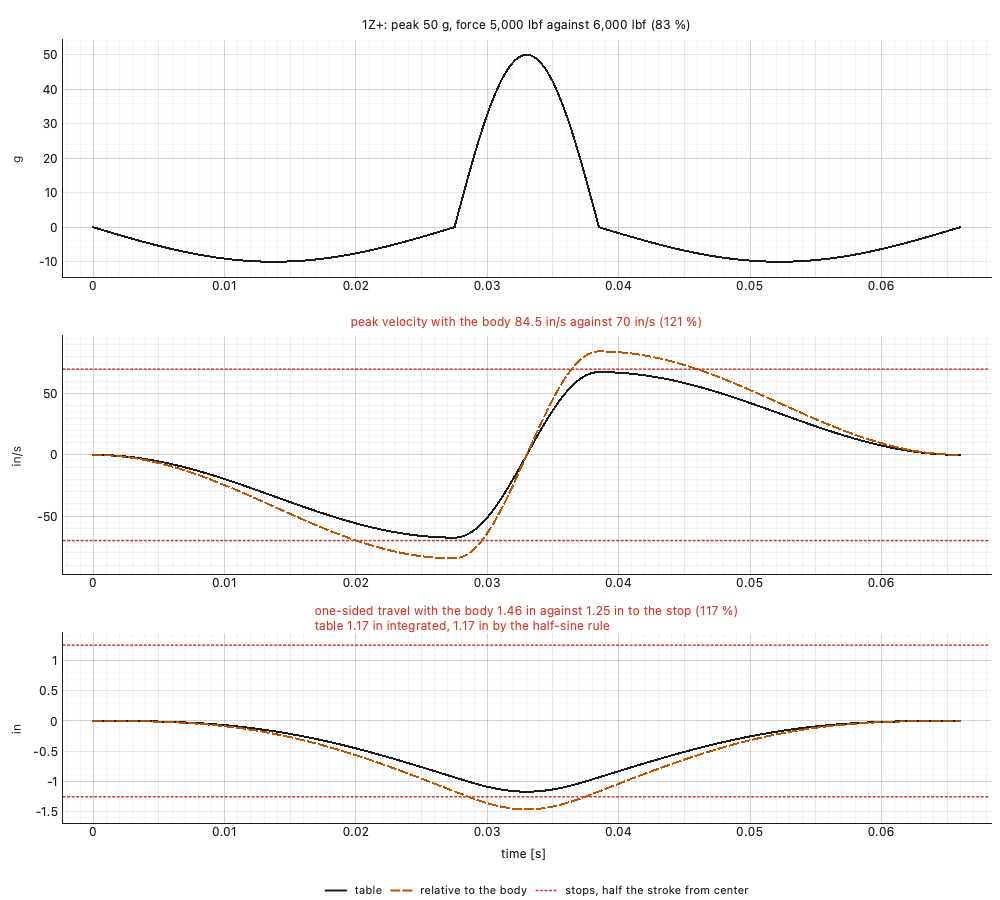
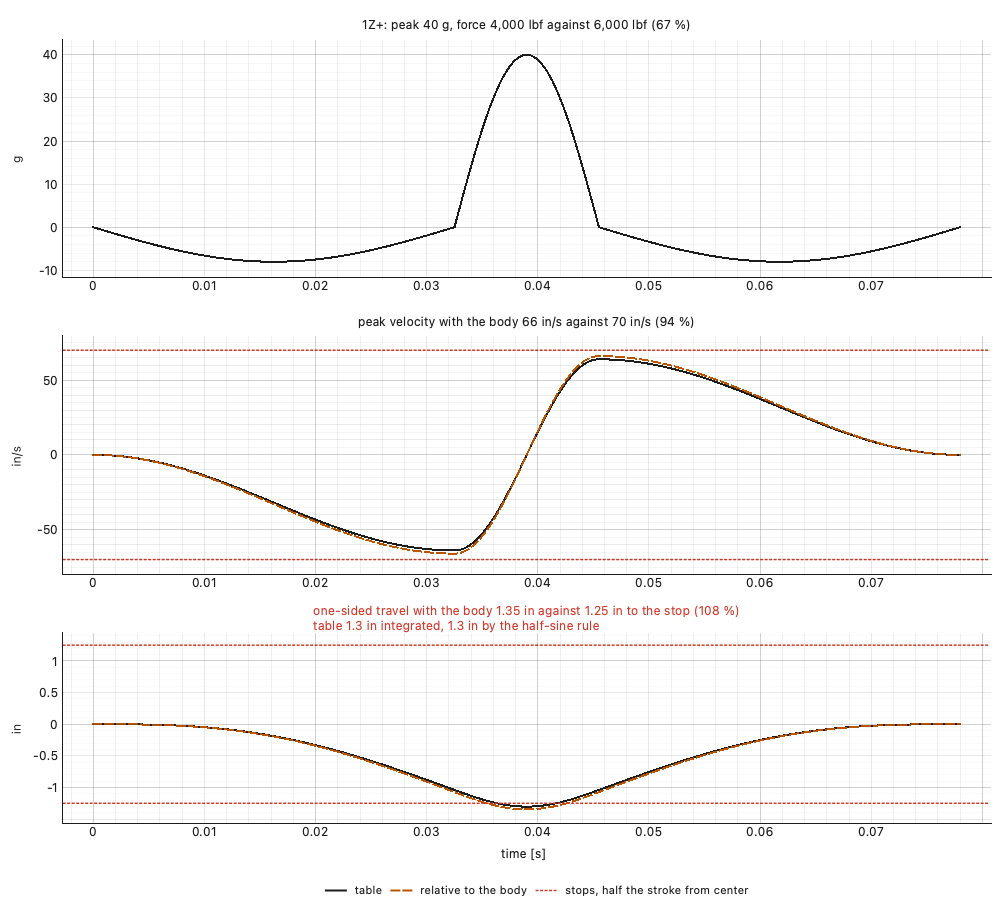
Home page links the acknowledgments; stroke guide with a realistic body mass

diff --git a/web/launch/index.html b/web/launch/index.html
@@ -37,6 +37,11 @@
     A visual structural dynamics toolset for viewing, analyzing, and
     reporting structural dynamic data in an interactive way.
   </p>
+  <p class="note">
+    Many people and projects helped shape Visual Dynamics. They are
+    thanked on the <a href="acknowledgments.html">acknowledgments</a>
+    page.
+  </p>
 </main>
 <footer>
   <a href="mailto:contact@visualdynamics.org">contact@visualdynamics.org</a><br>

diff --git a/tests/test_stroke.py b/tests/test_stroke.py
@@ -101,6 +101,34 @@ def test_a_moving_mass_a_quarter_of_the_bodys_needs_1_46_in_of_relative_travel()
         assert plain.relative_velocity == plain.peak_velocity
 
 
+def test_the_guides_example_reads_what_the_guide_says():
+    """The guide's 40 g, 13 ms pulse with 100 lb on a 3,000 lb body:
+    108 % of the room one way, fits centered, the velocity 94 % against
+    the body and 91 % with the body left out. The example was a 400 lb
+    body once, a ratio no shaker that size has, which put the velocity
+    at 121 % (Brandon, 2026-10-18)."""
+    from pathlib import Path
+
+    ratings = {'stroke': 2.5 * INCH, 'velocity': 70.0 * INCH,
+               'force': 6000.0 * LBF, 'moving_mass': 100.0 * LB}
+    counted = read_stroke(pulse(40.0, 0.013), **ratings,
+                          body_mass=3000.0 * LB)
+    shares = counted.shares()
+    assert round(shares['stroke'] * 100) == 108
+    assert round(shares['velocity'] * 100) == 94
+    assert round(shares['force'] * 100) == 67
+    assert counted.travel <= 2.5 * INCH, 'centered, it fits'
+    alone = read_stroke(pulse(40.0, 0.013), **ratings).shares()
+    assert (round(alone['stroke'] * 100), round(alone['velocity'] * 100)) \
+        == (104, 91)
+    guide = (Path(__file__).resolve().parent.parent / 'docs' / 'guide'
+             / 'stroke.md').read_text(encoding='utf-8')
+    for said in ("compensated_half_sine(40.0, 0.013, 102400.0, unit='g')",
+                 "float(to_si(3000.0, 'lb'))", '108 % of the',
+                 '94 % of the 70 in/s', '104 % of', '91 % of its rating'):
+        assert said in ' '.join(guide.split()), f'the guide says {said!r}'
+
+
 @pytest.mark.parametrize('peak,duration', [
     (20.0, 0.011), (50.0, 0.011), (100.0, 0.011), (30.0, 0.018),
     (10.0 * np.pi, 0.011), (100.0, 0.006), (20.0, 0.030)])

diff --git a/tools/make_concept_figures.py b/tools/make_concept_figures.py
@@ -764,20 +764,20 @@ def replication_fit():
 
 
 def stroke_readout():
-    """Whether a pulse fits on the shaker: the 50 g, 11 ms half-sine
+    """Whether a pulse fits on the shaker: the 40 g, 13 ms half-sine
     compensated at a fifth of its peak, against a 2.5 in stroke and a
-    70 in/s shock velocity, with a moving mass of 100 lb on a body four
-    times as heavy and a 6,000 lbf force rating."""
+    70 in/s shock velocity, with a moving mass of 100 lb on a body of
+    3,000 lb and a 6,000 lbf force rating."""
     from visualdynamics.core.stroke import compensated_half_sine, read_stroke
     from visualdynamics.plot import plot_stroke
     from visualdynamics.units import DEFAULT_SYSTEM, to_si
 
-    pulse = compensated_half_sine(50.0, 0.011, 102400.0, unit='g')
+    pulse = compensated_half_sine(40.0, 0.013, 102400.0, unit='g')
     ratings = {'stroke': float(to_si(2.5, 'in')),
                'velocity': float(to_si(70.0, 'in/s')),
                'force': float(to_si(6000.0, 'lbf')),
                'moving_mass': float(to_si(100.0, 'lb')),
-               'body_mass': float(to_si(400.0, 'lb'))}
+               'body_mass': float(to_si(3000.0, 'lb'))}
     reading = read_stroke(pulse, **ratings)
     for line in reading.describe(DEFAULT_SYSTEM):
         print(f'  {line}')

diff --git a/src/visualdynamics/core/stroke.py b/src/visualdynamics/core/stroke.py
@@ -479,7 +479,7 @@ def read_stroke(history: TimeHistory, channel: int | str | None = None, *,
         reading = read_stroke(compensated_half_sine(50.0, 0.011, 102400.0,
                                                     unit='g'),
                               stroke=0.0635, velocity=1.778,
-                              moving_mass=45.4, body_mass=181.4)
+                              moving_mass=45.4, body_mass=1361.0)
 
     The record is integrated from rest at its first sample with nothing
     removed (`filters.integrate` with ``drift_corner=None``; the module
@@ -508,7 +508,8 @@ def read_stroke(history: TimeHistory, channel: int | str | None = None, *,
     body_mass : float, optional
         The shaker body's mass, in kg; with `moving_mass`, the body's
         motion is counted into the travel and the velocity. The table
-        alone when omitted.
+        alone when omitted, which is right for a body bolted to a
+        seismic mass.
 
     Returns
     -------

diff --git a/tests/test_website.py b/tests/test_website.py
@@ -163,6 +163,16 @@ def test_the_navigation_wraps_on_a_phone():
         'a URL in inline code must break rather than widen the page'
 
 
+def test_the_home_page_points_at_the_acknowledgments():
+    """The acknowledgments page was reached only through About, where
+    nobody looked for it (Brandon, 2026-10-18). The home page links it
+    now, and About keeps its link."""
+    for name in ('index', 'about'):
+        page = (LAUNCH / f'{name}.html').read_text(encoding='utf-8')
+        assert '<a href="acknowledgments.html">' in page, \
+            f'{name}: links the acknowledgments'
+
+
 def test_the_downloads_page_links_every_example_set_the_tool_cuts():
     """The example projects are a release of their own, cut and
     uploaded by tools/cut_examples.py, and the downloads page links

diff --git a/src/visualdynamics/core/shaker.py b/src/visualdynamics/core/shaker.py
@@ -58,7 +58,8 @@ class ShakerRating:
     m/s, and `moving_mass` everything the shaker accelerates in kg: the
     armature, the head expander or slip table, the fixture and the
     article. `body_mass`, in kg, counts the body's motion opposite the
-    armature when it is given with the moving mass.
+    armature when it is given with the moving mass; leave it out for a
+    body bolted to a seismic mass, which barely moves.
 
     Each is optional, and a rating left out is not judged: a reading
     that needs one says so. One that is given must be a finite number

diff --git a/docs/guide/stroke.md b/docs/guide/stroke.md
@@ -32,7 +32,7 @@ with nothing removed, from rest at the record's first sample: the same
 `filters.integrate` the Integrate act uses, called with
 `drift_corner=None`. The default 2 Hz drift high-pass is no longer
 transparent here, because the displacement of a compensated pulse is
-content at a few hertz. With it, the 50 g, 11 ms pulse below reads
+content at a few hertz. With it, a 50 g, 11 ms pulse reads
 1.212 in peak to peak instead of 1.166 in, 3.9 % high, and its
 displacement no longer starts and ends at rest. A stroke estimate is
 integrated raw.
@@ -61,9 +61,13 @@ not a number is refused. The ratings are judged by the rules in
 
 The body is counted because the ratings are the armature's motion
 relative to the body, and a body on isolation mounts moves the other
-way by the ratio of the moving mass to its own. Given both masses, the
-travel and the velocity count it. The compensation is low in
-frequency, where the body moves most.
+way by the ratio of the moving mass to its own. The stops are on the
+body, and the back voltage the amplifier works against comes from the
+coil's velocity through the body's magnet, so the travel and the
+velocity both count it when both masses are given. The compensation
+is low in frequency, where the body moves most. A body bolted to a
+seismic mass or a rigid floor barely moves: leave `body_mass` out for
+it, and the travel and the velocity are the table's own.
 
 The stroke share is the larger travel each way from center over half
 the stroke, because the armature rests at center, held there by its
@@ -87,39 +91,40 @@ controller's own prediction and to a measurement.
 
 ## An example
 
-The 50 g, 11 ms half-sine compensated at a fifth, on a shaker with a
+The 40 g, 13 ms half-sine compensated at a fifth, on a shaker with a
 2.5 in shock stroke, a 70 in/s shock velocity and a 6,000 lbf shock
-force, with 100 lb moving on a body of 400 lb:
+force, with 100 lb moving on a body of 3,000 lb:
 
 ```python
 from visualdynamics.core.stroke import compensated_half_sine, read_stroke
 from visualdynamics.plot import plot_stroke
 from visualdynamics.units import to_si
 
-pulse = compensated_half_sine(50.0, 0.011, 102400.0, unit='g')
+pulse = compensated_half_sine(40.0, 0.013, 102400.0, unit='g')
 ratings = {'stroke': float(to_si(2.5, 'in')),
            'velocity': float(to_si(70.0, 'in/s')),
            'force': float(to_si(6000.0, 'lbf')),
            'moving_mass': float(to_si(100.0, 'lb')),
-           'body_mass': float(to_si(400.0, 'lb'))}
+           'body_mass': float(to_si(3000.0, 'lb'))}
 reading = read_stroke(pulse, **ratings)
 print('\n'.join(reading.describe()))
 plot_stroke(pulse, **ratings, path='stroke.png')
 ```
 
-The table moves 1.17 in peak to peak and the body adds a quarter, so
-the travel against the body is 1.46 in. It runs 1.46 in down from
-center and none up, against 1.25 in to the stop each way: 117 % of the
-room, so the pulse as compensated here reaches a stop. The 1.46 in peak
+The table moves 1.30 in peak to peak and the body adds a thirtieth, so
+the travel against the body is 1.35 in. It runs 1.35 in down from
+center and none up, against 1.25 in to the stop each way: 108 % of the
+room, so the pulse as compensated here reaches a stop. The 1.35 in peak
 to peak is inside the 2.5 in stroke, so compensation that centers the
-travel would put about 0.73 in each way, inside the stops. The table's
-velocity peaks at 67.6 in/s, and with the body's quarter the coil moves
-84.5 in/s against the body, 121 % of the 70 in/s rating; the force is
-5,000 lbf, 83 % of its own. So the pulse does not fit as compensated
-here, and on its velocity it would not fit centered either.
+travel would put about 0.67 in each way, inside the stops. The table's
+velocity peaks at 63.9 in/s, and the coil moves 66.0 in/s against the
+body, 94 % of the 70 in/s rating; the force is 4,000 lbf, 67 % of its
+own. So the pulse fits once the controller centers its travel. With
+the body bolted down and `body_mass` left out, the travel is 104 % of
+the room and the velocity 91 % of its rating.
 
-![The compensated 50 g, 11 ms half-sine in three rows: the pulse, its
-velocity with the velocity against the body dashed past the 70 in/s
+![The compensated 40 g, 13 ms half-sine in three rows: the pulse, its
+velocity with the velocity against the body dashed inside the 70 in/s
 rating lines, and the table's displacement with the travel relative to
 the body dashed beneath it, past the lower stop half the stroke below
 center](images/stroke-readout.png)

diff --git a/docs/guide/replication-fit.md b/docs/guide/replication-fit.md
@@ -59,7 +59,8 @@ mass to the body's mass, so the travel that reaches the stops, and the
 velocity the coil moves at against the body, are the table's times one
 plus that ratio. The body moves most at low frequency, which is where a
 replication record's displacement lives. Give the body's mass and both
-count it; leave it out and they are the table's alone. The travel is
+count it; leave it out, as for a body bolted to a seismic mass, and
+they are the table's alone. The travel is
 checked each way from the middle of the stroke against half the
 stroke: a record that dips into a hole and climbs out is not symmetric
 about zero, and a span inside the stroke can still run one way past a
